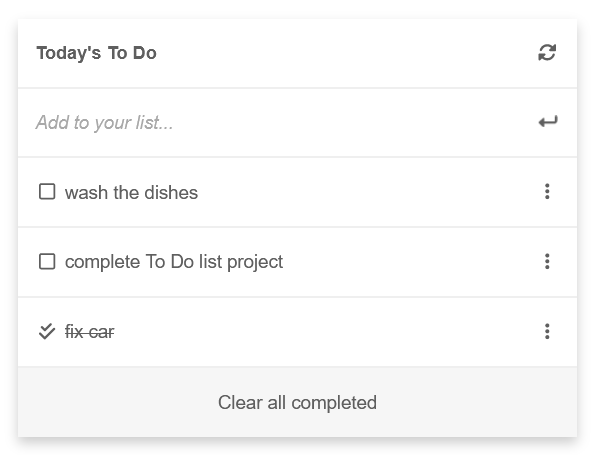
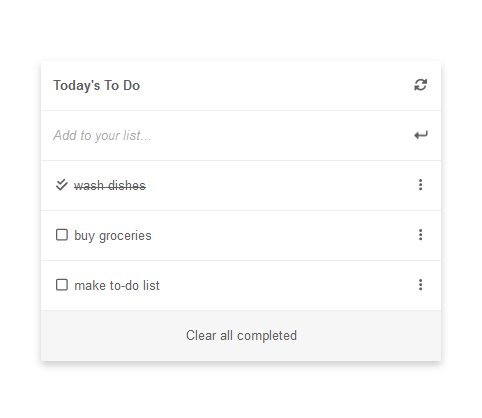
Update readme and screenshot

diff --git a/README.md b/README.md
@@ -2,7 +2,7 @@
 
 # Project Name
 
-> Sample Design of a book List.
+> Sample Design of a to-do List.
 
 ## Built With
 
